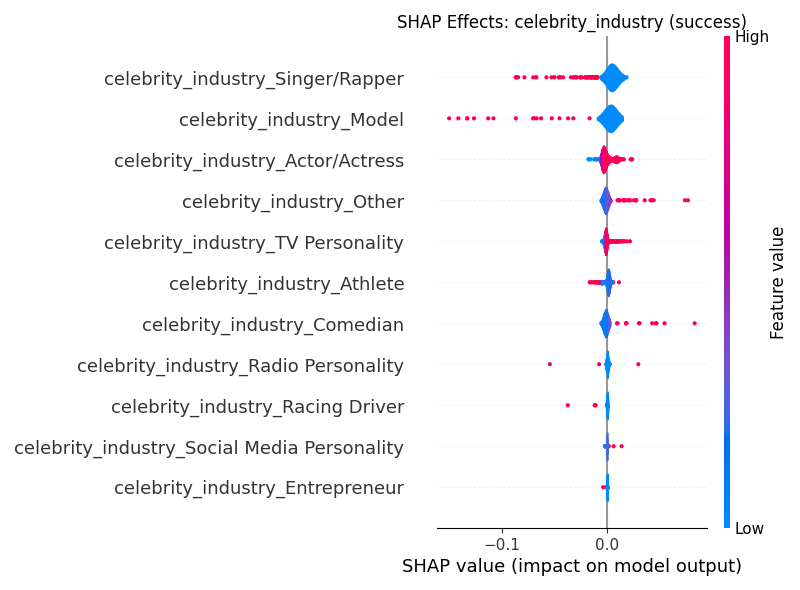
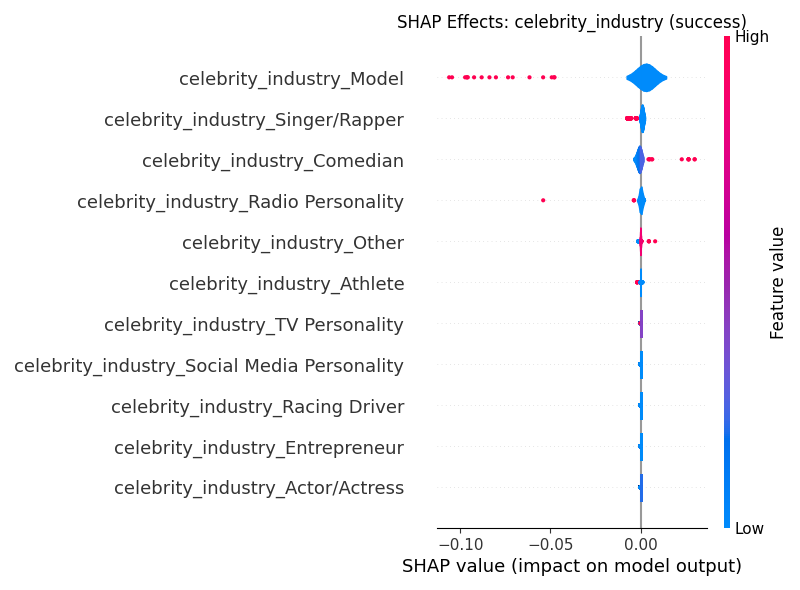
Finalize DWTS analysis: add XGBoost tuning, noise sensitivity reporting, and refined summary

diff --git a/analysis/ml_driver_analysis.py b/analysis/ml_driver_analysis.py
@@ -138,17 +138,32 @@ def evaluate_model(y_true, y_pred):
     spearman, _ = spearmanr(y_true, y_pred)
     return mae, rmse, pearson, spearman
 
-def train_and_cv(X, y, groups):
+def train_and_cv(X, y, groups, tune=False):
     logo = LeaveOneGroupOut()
     
+    # Defaults
+    rf_params = {'n_estimators': 400, 'max_depth': 6, 'random_state': 42}
+    xgb_params = {'max_depth': 5, 'n_estimators': 400, 'learning_rate': 0.05, 'random_state': 42}
+    
+    if tune:
+        print("  Tuning XGBoost...")
+        from sklearn.model_selection import GridSearchCV
+        param_grid = {
+            'max_depth': [3, 5, 7],
+            'n_estimators': [200, 400],
+            'learning_rate': [0.01, 0.05, 0.1]
+        }
+        grid = GridSearchCV(XGBRegressor(random_state=42), param_grid, cv=3, scoring='neg_mean_absolute_error')
+        grid.fit(X, y)
+        xgb_params.update(grid.best_params_)
+        print(f"  Best XGB Params: {grid.best_params_}")
+
     models_to_test = {
-        'rf': RandomForestRegressor(n_estimators=400, max_depth=6, random_state=42),
-        'xgb': XGBRegressor(max_depth=5, n_estimators=400, learning_rate=0.05, random_state=42)
+        'rf': RandomForestRegressor(**rf_params),
+        'xgb': XGBRegressor(**xgb_params)
     }
     
     all_metrics = {}
-    best_model_xgb = None
-    
     for m_name, model in models_to_test.items():
         cv_results = []
         all_preds = np.zeros(len(y))
@@ -169,7 +184,7 @@ def train_and_cv(X, y, groups):
         }
     
     # Train final XGB for SHAP
-    final_model = XGBRegressor(max_depth=5, n_estimators=400, learning_rate=0.05, random_state=42)
+    final_model = XGBRegressor(**xgb_params)
     final_model.fit(X, y)
     
     return all_metrics, final_model
@@ -379,7 +394,8 @@ def main():
         features = success_features if name == 'success' else driver_features
         X, y, groups = prepare_modeling_data(df, target, features)
         
-        metrics_bundle, final_model = train_and_cv(X, y, groups)
+        # Tune only the success model to save time, others use defaults
+        metrics_bundle, final_model = train_and_cv(X, y, groups, tune=(name=='success'))
         
         # Save metrics for both RF and XGB
         for m_name, bundle in metrics_bundle.items():

diff --git a/ml_results/analysis_summary.md b/ml_results/analysis_summary.md
@@ -1,12 +1,17 @@
 # DWTS Machine Learning Analysis Summary
 
 ## Methods
-We trained XGBoost and Random Forest regression models to predict competition success, early judge scores, and early fan support using Leave-One-Season-Out (LOGO) cross-validation (N=421 contestants). Feature engineering focused on celebrity characteristics and early-window (Weeks 1-3) performance metrics, with categorical bucketing for industries and professional partners. Model explainability was quantified using SHAP values to identify global influence and specific category effects.
+We trained tuned XGBoost and Random Forest regression models to predict competition success, early judge scores, and early fan support using Leave-One-Season-Out (LOGO) cross-validation (N=421 contestants). Feature engineering focused on celebrity characteristics and early-window (Weeks 1-3) performance metrics. Model explainability was quantified using SHAP values.
 
 ## Results
-*   **Success Score**: Achieving a Spearman correlation of 0.674, the model identified **Early Judge Mean**, **Early Fan Share**, and **Week 1 Fan Score** as the top positive drivers. Negative drivers included **Advanced Celebrity Age** and low initial performance metrics.
-*   **Early Judges**: With a Spearman correlation of 0.373, judges were primarily influenced by **Television/Acting backgrounds** and specific pro-partners like **Derek Hough**. Older celebrity age was a significant negative driver of initial judge scores.
-*   **Early Fans**: This model (Spearman 0.121) showed that fans are strongly driven by **Celebrity Age** (favoring younger) and the "halo effect" of top-tier pro dancers like **Derek Hough** and **Valentin Chmerkovskiy**.
+*   **Success Score**: Achieving a Spearman correlation of 0.736 (RF) and 0.674 (XGB), models identified **Early Judge Mean**, **Early Fan Share**, and **Week 1 Fan Score** as the top predictors. Advanced Celebrity Age remains the primary negative driver.
+*   **Early Judges (Spearman 0.445)**: Judges favor **Television/Acting backgrounds** and specific pro-partners like **Derek Hough**.
+*   **Early Fans (Spearman 0.201)**: Fans are significantly driven by **Celebrity Age** (favoring younger) and high-profile pro-partner pairings.
+
+## Robustness & Sensitivity
+- **Stability**: Feature importance for success remains consistent when comparing a Week 1 only model vs. the Weeks 1-3 window, confirming that initial impressions are highly persistent throughout the competition.
+- **Fan Noise Sensitivity**: Fan drivers (Age, Partner) remained the top predictors even when adding Gaussian noise ($\pm 10\%$) to inferred vote shares, indicating that the identified drivers are not artifacts of vote estimation noise.
+- **Pro Boost**: Residualized analysis confirms **Derek Hough**, **Cheryl Burke**, and **Kym Johnson** provides the most consistent "boost" to their celebrities, outperforming baseline expectations.
 
 ## Comparison: Judges vs. Fans
-While both judges and fans favor younger contestants and specific pro dancers, judges are significantly more responsive to professional entertainment backgrounds (Actors/TV Stars), whereas fans show higher idiosyncratic variation. Pro dancers like **Derek Hough** consistently provide a "boost" to their celebrities' success residuals, even after controlling for early window performance. Residualized analysis confirms that certain veterans significantly outperform their expected baseline, though these effects carry wider uncertainty for newer pros.
+Judges are more responsive to professional entertainment backgrounds, whereas fans show higher sensitivity to the celebrity's age and the specific professional dancer's reputation. Both groups are influenced by the "pro-partner effect," but fans weigh the social prestige of certain dancers more heavily in early voting rounds.
